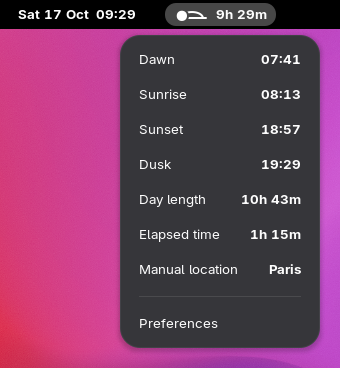
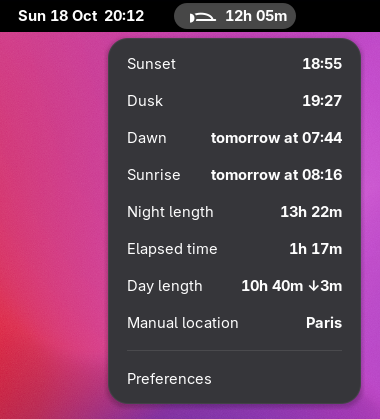
docs: retake the screenshots, and show the Year page
The menu shows the Day length trend, the night indicator the Moon in its
phase, and the preferences their Display page; the top bar is retaken
with the smaller Sun. The README gains a screenshot of the Year page.

Changed region(s): [[0.0, 0.0, 0.9706, 1.0], [0.0294, 0.0, 0.4118, 0.0598], [0.7647, 0.2092, 0.9118, 0.269]]

diff --git a/README.md b/README.md
@@ -79,14 +79,14 @@ gnome-extensions enable vesperal@kornifex.github.io
 
 | By day, remaining time | By night, elapsed time |
 |---|---|
-| ![The Sun early on its arc, 9h 27m until sunset](docs/screenshots/top-bar.png) | ![The Moon halfway along its arc, 6h 14m since sunset](docs/screenshots/night.png) |
+| ![The Sun early on its arc, 8h 50m until sunset](docs/screenshots/top-bar.png) | ![The Moon at its first quarter early on its arc, 1h 17m since sunset](docs/screenshots/night.png) |
 
 The part of the arc drawn in full is the part the duration measures: the way ahead of the Sun
 for remaining time, the way behind the Moon for elapsed time.
 
 ## Preferences
 
-![Vesperal preferences](docs/screenshots/preferences.png)
+![The Display page of the preferences](docs/screenshots/preferences.png)
 
 | Page | Setting | Choices | Default |
 |---|---|---|---|
@@ -109,6 +109,8 @@ from sunrise to sunset or from dawn to dusk as chosen, and gives today's day len
 dates of the next solstice and equinox. It moves on to the next day at midnight, even with the
 window left open. The preferences never ask the system where you are: in automatic mode, the
 Year page uses the last known location.
+
+![The Year page: the day length through the year in Paris, with today, the solstices and the equinoxes marked](docs/screenshots/year.png)
 
 ## Privacy
 
